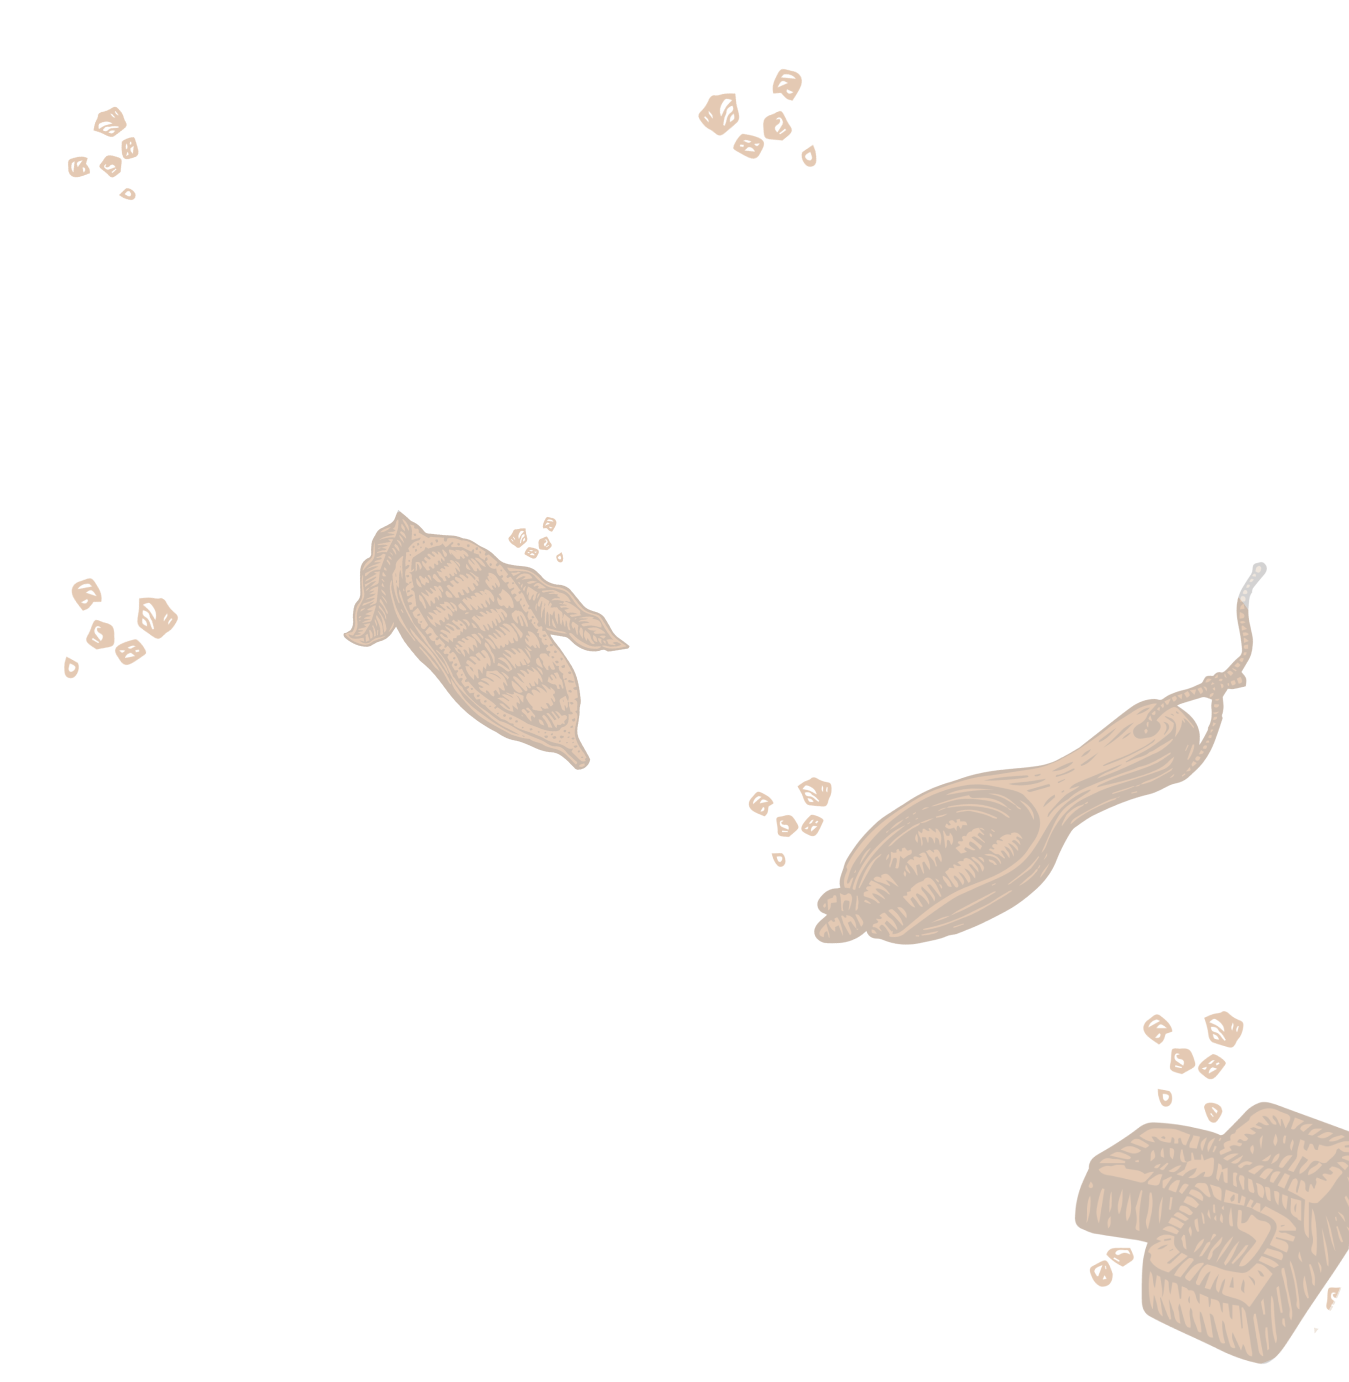
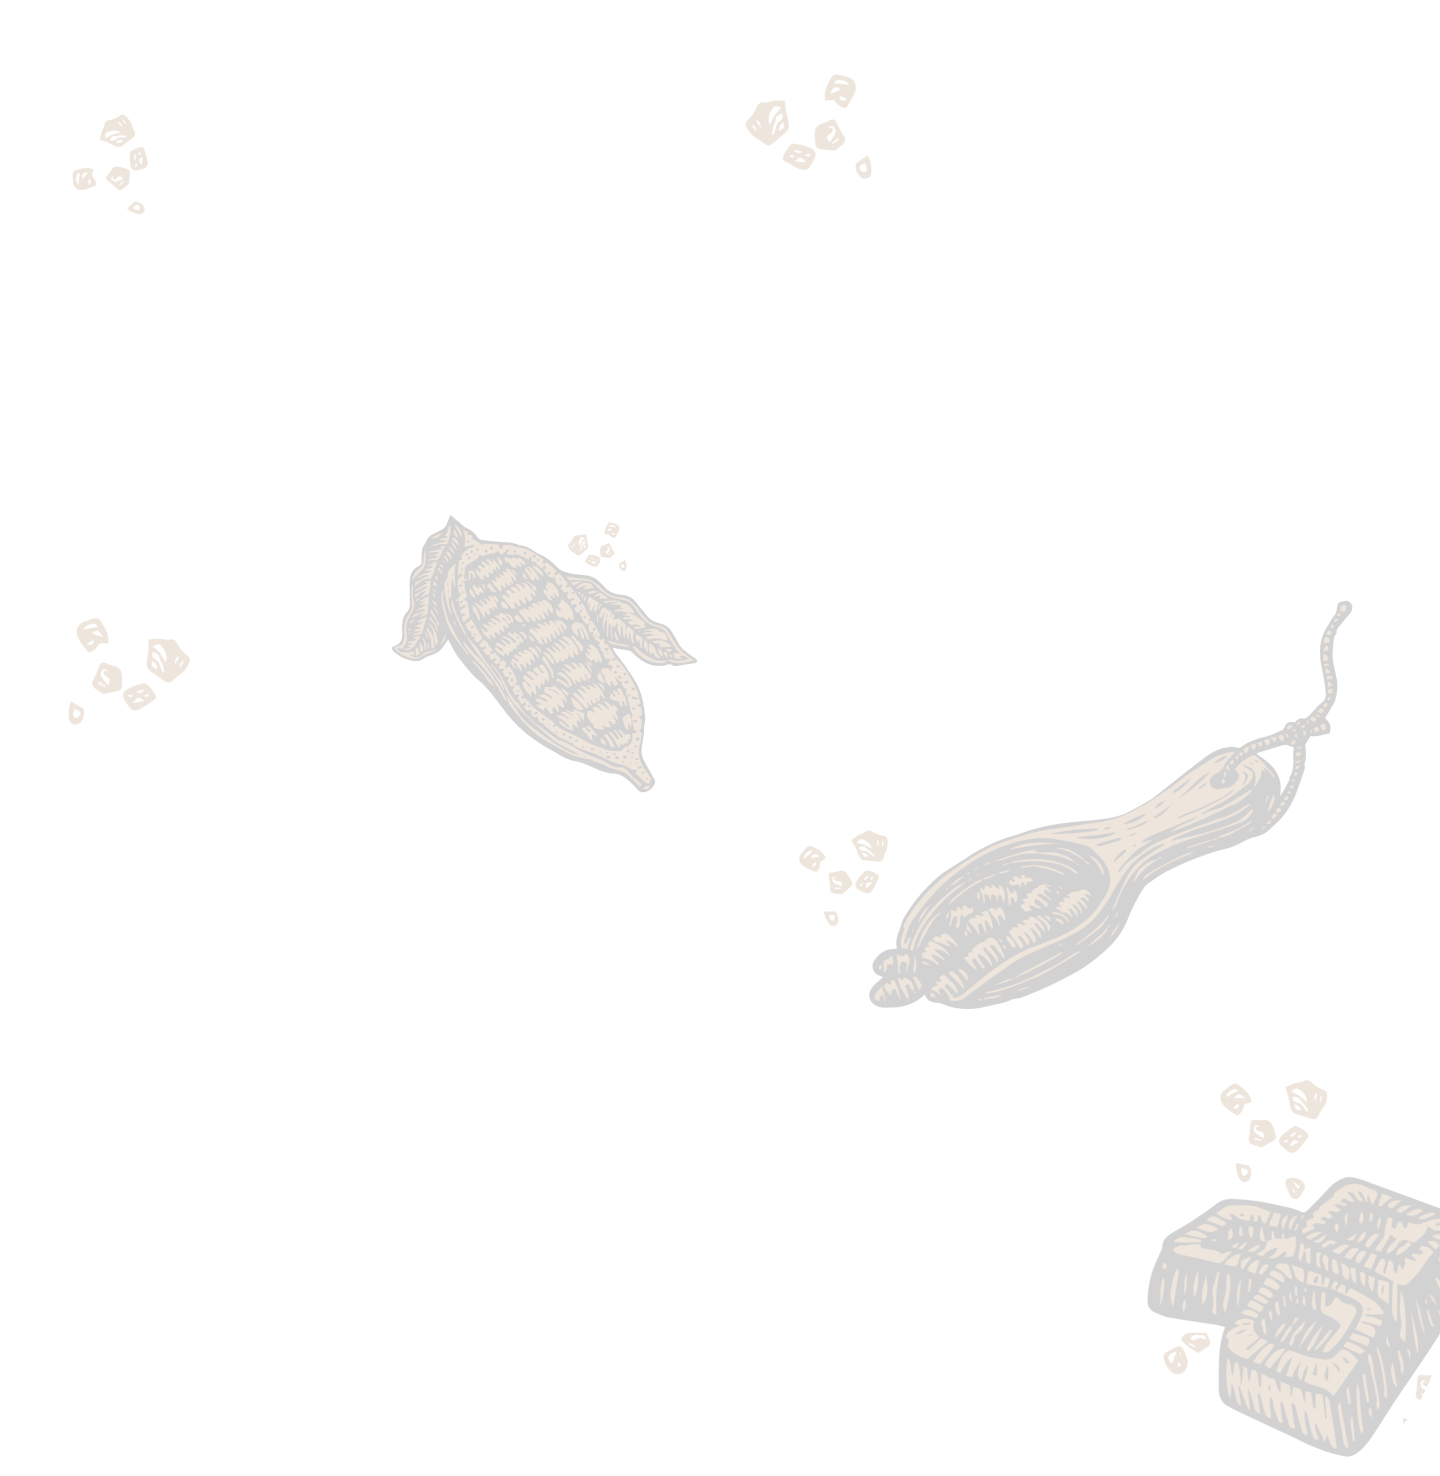
some changes

diff --git a/css/login.css b/css/login.css
@@ -2,7 +2,7 @@
 
 @import url('https://fonts.googleapis.com/css2?family=Abril+Fatface&display=swap');
 
-* {
+* {                         
   margin: 0;
   padding: 0;
   box-sizing: border-box;
@@ -73,7 +73,7 @@ p {
   color: #dfdfdf;
 }
 .nav__logo {
-  padding-top: 50px;
+  padding-top: 40px;
 }
 /*margen entre cada uno de los elementos del menu*/
 .menu__item {
@@ -96,4 +96,27 @@ p {
 /*cambiar tamaño image ICONOS*/
 .menu__icon img {
   height: 20px;   
+}
+
+
+
+ /*BANNER*/
+ .banner__img {
+  opacity: 60%;
+  object-fit: cover;
+  top: 20%;
+}
+.fondo__degrade {
+  /*display: flex;*/
+  flex-direction: column;
+  justify-content: center;
+  position: absolute;
+  width: 88%;
+  top: 160px;
+  left: 10px;
+  margin: 0 5%;
+  height: 380px;    
+  display: flex;
+  border-radius: 20px;
+  outline: 1px solid #EBD398;  
 }

diff --git a/login.html b/login.html
@@ -72,5 +72,19 @@
         </nav>
 
     </header>
+
+    <section class="banner position--relative">
+        <img class="banner__img position--relative" src="./images/body/fondo_body3.png" alt="img header" width="100%">
+
+        <div class="fondo__degrade">
+            <h2 class="text--details estilo--h3 ">DID YOU KNOW?</h2>    
+            <h1 class="text--details">Divenely Delicious</h1>    
+            <p class="text--details parrafo">The scientific name of the cocoa tree translated from the Latin as Food of the Gods. Our pastry chef reflected the name of chocolate in its taste.                    
+            </p>
+    
+        </div>
+    
+
+    </section>
 </body>
 </html>

diff --git a/css/styles.css b/css/styles.css
@@ -73,7 +73,7 @@ p {
   color: #dfdfdf;
 }
 .nav__logo {
-  padding-top: 50px;
+  padding-top: 40px;
 }
 /*margen entre cada uno de los elementos del menu*/
 .menu__item {
@@ -111,7 +111,7 @@ p {
   justify-content: center;
   position: absolute;
   width: 88%;
-  top: 165px;
+  top: 160px;
   left: 10px;
   margin: 0 5%;
   height: 380px;    

diff --git a/css/shopCake.css b/css/shopCake.css
@@ -69,7 +69,7 @@
   color: #dfdfdf;
 }
 .nav__logo {
-  padding-top: 50px;
+  padding-top: 40px;
 }
 /*margen entre cada uno de los elementos del menu*/
 .menu__item {
@@ -105,7 +105,7 @@
   justify-content: center;
   position: absolute;
   width: 55%;
-  top: 165px;
+  top: 160px;
   left: 10px;
   margin: 0 5%;
   height: 320px;    

diff --git a/product.js b/product.js
@@ -1,0 +1,11 @@
+function getParam() {
+    const url = window.location.search;
+    console.log(url);
+    const searchParams = new URLSearchParams(url);
+    const productId = searchParams.get(param);
+}
+
+funtion getProduct(){
+    const docRef = doc(db, "products", "IDENTIFICADOR")
+}
+getParam();
